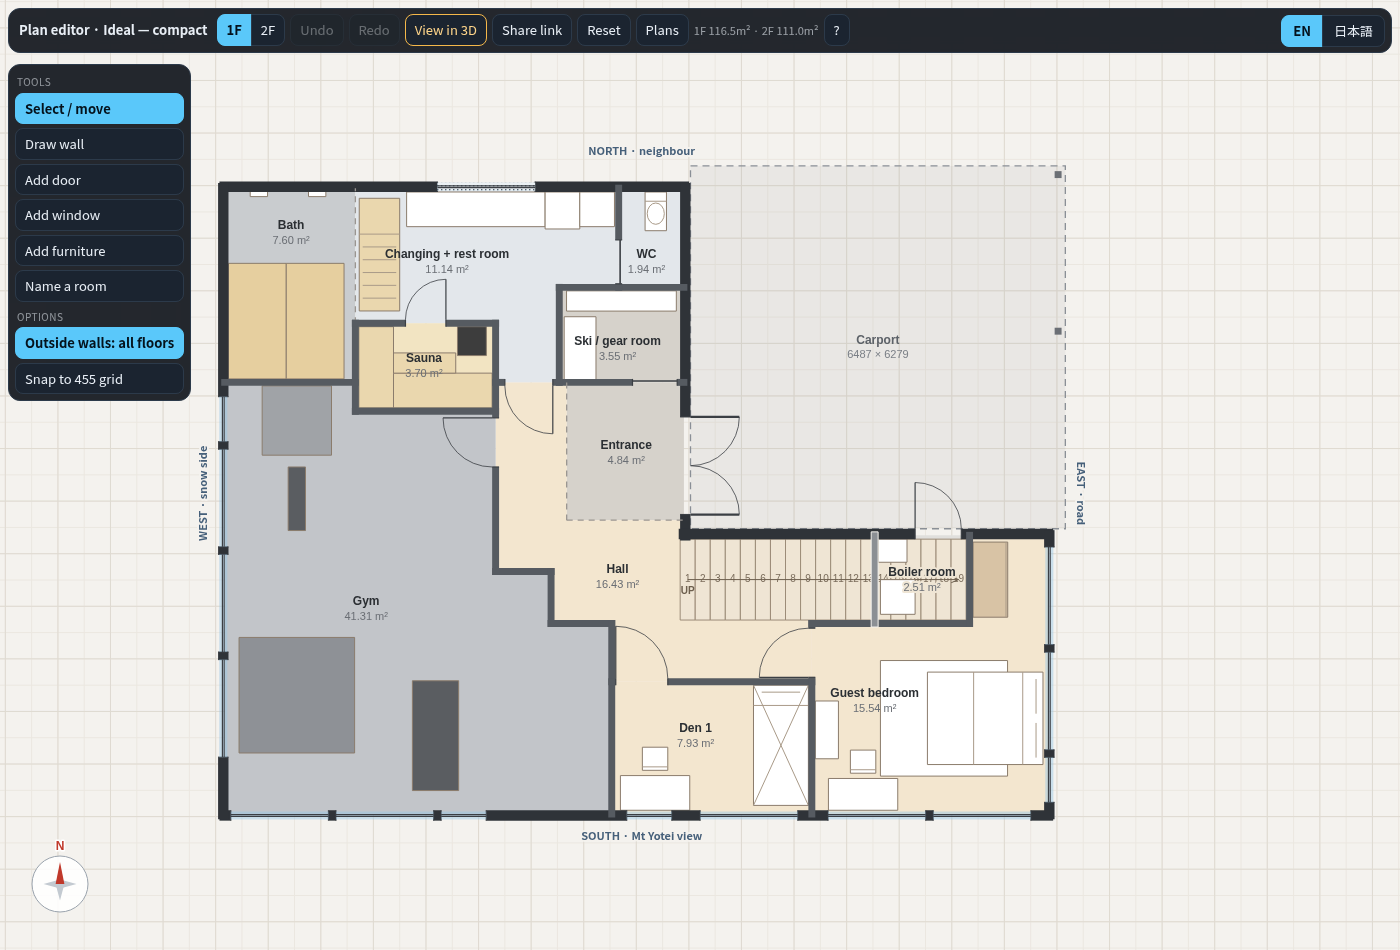
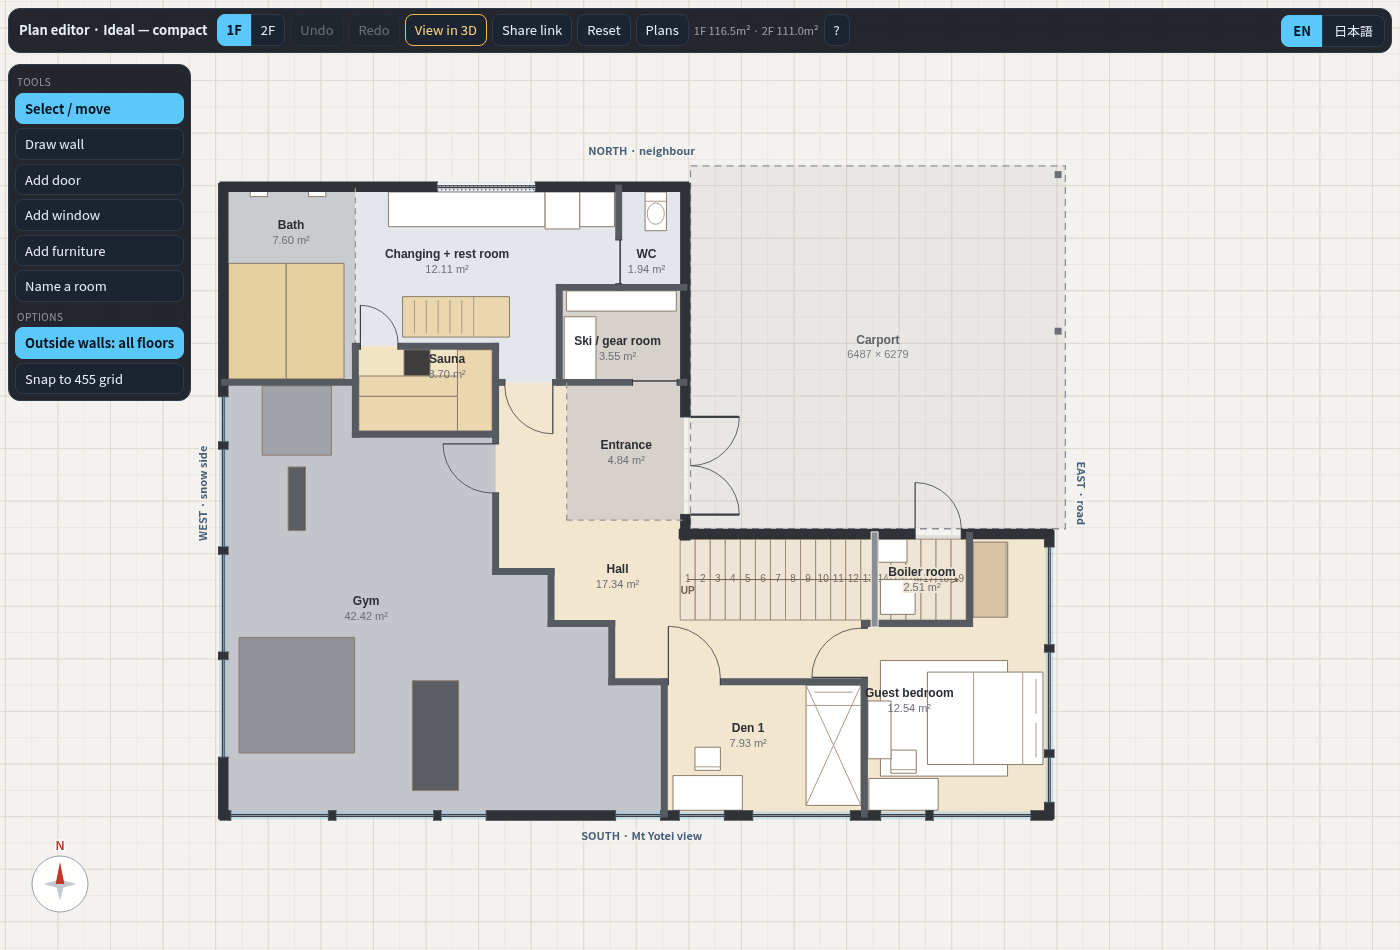
Ideal — compact v3: sauna further into the gym, lounger east-west, smaller guest bedroom
The sauna moves another 0.4 m south with its door by the bath; the lounger runs east-west
in front of it. Den 1 shifts 0.9 m east into the guest bedroom (12.5 m²); the gym takes
den 1's old strip (42.4 m²).

diff --git a/plans.html b/plans.html
@@ -75,8 +75,8 @@
     <dt><span class="en">Front door</span><span class="ja" lang="ja">玄関ドア</span></dt><dd><span class="en">double, 1.69 × 2.33 m</span><span class="ja" lang="ja">両開き 1.69×2.33m</span></dd>
   </dl>
   <div class="floors">
-    <figure><a class="ja" lang="ja" href="plans-img/d_1F_ja.png?v=28"><img src="plans-img/d_1F_ja.png?v=28" alt="理想プラン・1階" width="1400" height="950" loading="lazy"></a><a class="en" href="plans-img/d_1F.png?v=28"><img src="plans-img/d_1F.png?v=28" alt="Ideal plan, 1F" width="1400" height="950" loading="lazy"></a><figcaption><span class="en">1F</span><span class="ja" lang="ja">1階</span></figcaption></figure>
-    <figure><a class="ja" lang="ja" href="plans-img/d_2F_ja.png?v=28"><img src="plans-img/d_2F_ja.png?v=28" alt="理想プラン・2階" width="1400" height="950" loading="lazy"></a><a class="en" href="plans-img/d_2F.png?v=28"><img src="plans-img/d_2F.png?v=28" alt="Ideal plan, 2F" width="1400" height="950" loading="lazy"></a><figcaption><span class="en">2F</span><span class="ja" lang="ja">2階</span></figcaption></figure>
+    <figure><a class="ja" lang="ja" href="plans-img/d_1F_ja.png?v=29"><img src="plans-img/d_1F_ja.png?v=29" alt="理想プラン・1階" width="1400" height="950" loading="lazy"></a><a class="en" href="plans-img/d_1F.png?v=29"><img src="plans-img/d_1F.png?v=29" alt="Ideal plan, 1F" width="1400" height="950" loading="lazy"></a><figcaption><span class="en">1F</span><span class="ja" lang="ja">1階</span></figcaption></figure>
+    <figure><a class="ja" lang="ja" href="plans-img/d_2F_ja.png?v=29"><img src="plans-img/d_2F_ja.png?v=29" alt="理想プラン・2階" width="1400" height="950" loading="lazy"></a><a class="en" href="plans-img/d_2F.png?v=29"><img src="plans-img/d_2F.png?v=29" alt="Ideal plan, 2F" width="1400" height="950" loading="lazy"></a><figcaption><span class="en">2F</span><span class="ja" lang="ja">2階</span></figcaption></figure>
   </div>
 </section>
 <section id="plan-j">
@@ -90,15 +90,15 @@
     <dt><span class="en">Floor area</span><span class="ja" lang="ja">延床面積</span></dt><dd><span class="en">228 m² ≈ 69 tsubo</span><span class="ja" lang="ja">228 m²（約69坪）</span><br><small><span class="en">1F 116.5 · 2F 111.1 m²</span><span class="ja" lang="ja">1階 116.5・2階 111.1 m²</span></small></dd>
     <dt><span class="en">Bedrooms</span><span class="ja" lang="ja">寝室</span></dt><dd><span class="en">3, 2 with their own bathroom</span><span class="ja" lang="ja">3室（うち2室は専用バスルーム付き）</span></dd>
     <dt><span class="en">Dens</span><span class="ja" lang="ja">書斎</span></dt><dd><span class="en">2</span><span class="ja" lang="ja">2室</span></dd>
-    <dt><span class="en">Gym</span><span class="ja" lang="ja">ジム</span></dt><dd><span class="en">41.3 m²</span><span class="ja" lang="ja">41.3 m²</span></dd>
+    <dt><span class="en">Gym</span><span class="ja" lang="ja">ジム</span></dt><dd><span class="en">42.4 m²</span><span class="ja" lang="ja">42.4 m²</span></dd>
     <dt><span class="en">Bath + sauna</span><span class="ja" lang="ja">浴室＋サウナ</span></dt><dd><span class="en">7.6 + 3.7 m²</span><span class="ja" lang="ja">7.6＋3.7 m²</span></dd>
     <dt><span class="en">Living · dining · kitchen</span><span class="ja" lang="ja">LDK</span></dt><dd><span class="en">50.1 m²</span><span class="ja" lang="ja">50.1 m²</span></dd>
     <dt><span class="en">Roof height</span><span class="ja" lang="ja">最高高さ</span></dt><dd><span class="en">9.8 m above ground</span><span class="ja" lang="ja">地面から9.8 m</span></dd>
     <dt><span class="en">Front door</span><span class="ja" lang="ja">玄関ドア</span></dt><dd><span class="en">double, 1.69 × 2.33 m</span><span class="ja" lang="ja">両開き 1.69×2.33m</span></dd>
   </dl>
   <div class="floors">
-    <figure><a class="ja" lang="ja" href="plans-img/j_1F_ja.png?v=28"><img src="plans-img/j_1F_ja.png?v=28" alt="理想プラン（コンパクト）・1階" width="1400" height="950" loading="lazy"></a><a class="en" href="plans-img/j_1F.png?v=28"><img src="plans-img/j_1F.png?v=28" alt="Ideal — compact, 1F" width="1400" height="950" loading="lazy"></a><figcaption><span class="en">1F</span><span class="ja" lang="ja">1階</span></figcaption></figure>
-    <figure><a class="ja" lang="ja" href="plans-img/j_2F_ja.png?v=28"><img src="plans-img/j_2F_ja.png?v=28" alt="理想プラン（コンパクト）・2階" width="1400" height="950" loading="lazy"></a><a class="en" href="plans-img/j_2F.png?v=28"><img src="plans-img/j_2F.png?v=28" alt="Ideal — compact, 2F" width="1400" height="950" loading="lazy"></a><figcaption><span class="en">2F</span><span class="ja" lang="ja">2階</span></figcaption></figure>
+    <figure><a class="ja" lang="ja" href="plans-img/j_1F_ja.png?v=29"><img src="plans-img/j_1F_ja.png?v=29" alt="理想プラン（コンパクト）・1階" width="1400" height="950" loading="lazy"></a><a class="en" href="plans-img/j_1F.png?v=29"><img src="plans-img/j_1F.png?v=29" alt="Ideal — compact, 1F" width="1400" height="950" loading="lazy"></a><figcaption><span class="en">1F</span><span class="ja" lang="ja">1階</span></figcaption></figure>
+    <figure><a class="ja" lang="ja" href="plans-img/j_2F_ja.png?v=29"><img src="plans-img/j_2F_ja.png?v=29" alt="理想プラン（コンパクト）・2階" width="1400" height="950" loading="lazy"></a><a class="en" href="plans-img/j_2F.png?v=29"><img src="plans-img/j_2F.png?v=29" alt="Ideal — compact, 2F" width="1400" height="950" loading="lazy"></a><figcaption><span class="en">2F</span><span class="ja" lang="ja">2階</span></figcaption></figure>
   </div>
 </section>
 <details class="alt" id="alternatives">
@@ -121,9 +121,9 @@
     <dt><span class="en">Front door</span><span class="ja" lang="ja">玄関ドア</span></dt><dd><span class="en">parent-child, 1.24 × 2.33 m</span><span class="ja" lang="ja">親子ドア 1.24×2.33m</span></dd>
   </dl>
   <div class="floors">
-    <figure><a class="ja" lang="ja" href="plans-img/b_1F_ja.png?v=28"><img src="plans-img/b_1F_ja.png?v=28" alt="予算プラン・1階" width="1400" height="950" loading="lazy"></a><a class="en" href="plans-img/b_1F.png?v=28"><img src="plans-img/b_1F.png?v=28" alt="Budget plan, 1F" width="1400" height="950" loading="lazy"></a><figcaption><span class="en">1F</span><span class="ja" lang="ja">1階</span></figcaption></figure>
-    <figure><a class="ja" lang="ja" href="plans-img/b_2F_ja.png?v=28"><img src="plans-img/b_2F_ja.png?v=28" alt="予算プラン・2階" width="1400" height="950" loading="lazy"></a><a class="en" href="plans-img/b_2F.png?v=28"><img src="plans-img/b_2F.png?v=28" alt="Budget plan, 2F" width="1400" height="950" loading="lazy"></a><figcaption><span class="en">2F</span><span class="ja" lang="ja">2階</span></figcaption></figure>
-    <figure><a class="ja" lang="ja" href="plans-img/b_loft_ja.png?v=28"><img src="plans-img/b_loft_ja.png?v=28" alt="予算プラン・ロフト" width="1400" height="950" loading="lazy"></a><a class="en" href="plans-img/b_loft.png?v=28"><img src="plans-img/b_loft.png?v=28" alt="Budget plan, Loft" width="1400" height="950" loading="lazy"></a><figcaption><span class="en">Loft</span><span class="ja" lang="ja">ロフト</span></figcaption></figure>
+    <figure><a class="ja" lang="ja" href="plans-img/b_1F_ja.png?v=29"><img src="plans-img/b_1F_ja.png?v=29" alt="予算プラン・1階" width="1400" height="950" loading="lazy"></a><a class="en" href="plans-img/b_1F.png?v=29"><img src="plans-img/b_1F.png?v=29" alt="Budget plan, 1F" width="1400" height="950" loading="lazy"></a><figcaption><span class="en">1F</span><span class="ja" lang="ja">1階</span></figcaption></figure>
+    <figure><a class="ja" lang="ja" href="plans-img/b_2F_ja.png?v=29"><img src="plans-img/b_2F_ja.png?v=29" alt="予算プラン・2階" width="1400" height="950" loading="lazy"></a><a class="en" href="plans-img/b_2F.png?v=29"><img src="plans-img/b_2F.png?v=29" alt="Budget plan, 2F" width="1400" height="950" loading="lazy"></a><figcaption><span class="en">2F</span><span class="ja" lang="ja">2階</span></figcaption></figure>
+    <figure><a class="ja" lang="ja" href="plans-img/b_loft_ja.png?v=29"><img src="plans-img/b_loft_ja.png?v=29" alt="予算プラン・ロフト" width="1400" height="950" loading="lazy"></a><a class="en" href="plans-img/b_loft.png?v=29"><img src="plans-img/b_loft.png?v=29" alt="Budget plan, Loft" width="1400" height="950" loading="lazy"></a><figcaption><span class="en">Loft</span><span class="ja" lang="ja">ロフト</span></figcaption></figure>
   </div>
 </section>
 <section id="plan-c">
@@ -144,9 +144,9 @@
     <dt><span class="en">Front door</span><span class="ja" lang="ja">玄関ドア</span></dt><dd><span class="en">double, 1.69 × 2.33 m</span><span class="ja" lang="ja">両開き 1.69×2.33m</span></dd>
   </dl>
   <div class="floors">
-    <figure><a class="ja" lang="ja" href="plans-img/c_1F_ja.png?v=28"><img src="plans-img/c_1F_ja.png?v=28" alt="中間プラン・1階" width="1400" height="950" loading="lazy"></a><a class="en" href="plans-img/c_1F.png?v=28"><img src="plans-img/c_1F.png?v=28" alt="Mid tier plan, 1F" width="1400" height="950" loading="lazy"></a><figcaption><span class="en">1F</span><span class="ja" lang="ja">1階</span></figcaption></figure>
-    <figure><a class="ja" lang="ja" href="plans-img/c_2F_ja.png?v=28"><img src="plans-img/c_2F_ja.png?v=28" alt="中間プラン・2階" width="1400" height="950" loading="lazy"></a><a class="en" href="plans-img/c_2F.png?v=28"><img src="plans-img/c_2F.png?v=28" alt="Mid tier plan, 2F" width="1400" height="950" loading="lazy"></a><figcaption><span class="en">2F</span><span class="ja" lang="ja">2階</span></figcaption></figure>
-    <figure><a class="ja" lang="ja" href="plans-img/c_loft_ja.png?v=28"><img src="plans-img/c_loft_ja.png?v=28" alt="中間プラン・ロフト" width="1400" height="950" loading="lazy"></a><a class="en" href="plans-img/c_loft.png?v=28"><img src="plans-img/c_loft.png?v=28" alt="Mid tier plan, Loft" width="1400" height="950" loading="lazy"></a><figcaption><span class="en">Loft</span><span class="ja" lang="ja">ロフト</span></figcaption></figure>
+    <figure><a class="ja" lang="ja" href="plans-img/c_1F_ja.png?v=29"><img src="plans-img/c_1F_ja.png?v=29" alt="中間プラン・1階" width="1400" height="950" loading="lazy"></a><a class="en" href="plans-img/c_1F.png?v=29"><img src="plans-img/c_1F.png?v=29" alt="Mid tier plan, 1F" width="1400" height="950" loading="lazy"></a><figcaption><span class="en">1F</span><span class="ja" lang="ja">1階</span></figcaption></figure>
+    <figure><a class="ja" lang="ja" href="plans-img/c_2F_ja.png?v=29"><img src="plans-img/c_2F_ja.png?v=29" alt="中間プラン・2階" width="1400" height="950" loading="lazy"></a><a class="en" href="plans-img/c_2F.png?v=29"><img src="plans-img/c_2F.png?v=29" alt="Mid tier plan, 2F" width="1400" height="950" loading="lazy"></a><figcaption><span class="en">2F</span><span class="ja" lang="ja">2階</span></figcaption></figure>
+    <figure><a class="ja" lang="ja" href="plans-img/c_loft_ja.png?v=29"><img src="plans-img/c_loft_ja.png?v=29" alt="中間プラン・ロフト" width="1400" height="950" loading="lazy"></a><a class="en" href="plans-img/c_loft.png?v=29"><img src="plans-img/c_loft.png?v=29" alt="Mid tier plan, Loft" width="1400" height="950" loading="lazy"></a><figcaption><span class="en">Loft</span><span class="ja" lang="ja">ロフト</span></figcaption></figure>
   </div>
 </section>
 </details>

diff --git a/edit.js b/edit.js
@@ -27,7 +27,7 @@ const PLANS = {
   b: { url: 'ref-model-b.json?v=5', key: 'h3dRefModelB', view: 'index.html?house=4', edit: 'edit.html?plan=b' },
   c: { url: 'ref-model-c.json?v=5', key: 'h3dRefModelC', view: 'index.html?house=5', edit: 'edit.html?plan=c' },
   d: { url: 'ref-model-d.json?v=7', key: 'h3dRefModelD', view: 'index.html?house=6', edit: 'edit.html?plan=d' },
-  j: { url: 'ref-model-j.json?v=2', key: 'h3dRefModelJ', view: 'index.html?house=12', edit: 'edit.html?plan=j' },
+  j: { url: 'ref-model-j.json?v=3', key: 'h3dRefModelJ', view: 'index.html?house=12', edit: 'edit.html?plan=j' },
   f: { url: 'ref-model-f.json?v=5', key: 'h3dRefModelF', view: 'index.html?house=8', edit: 'edit.html?plan=f', ichijo: true },
   g: { url: 'ref-model-g.json?v=3', key: 'h3dRefModelG', view: 'index.html?house=9', edit: 'edit.html?plan=g', ichijo: true },
 };
@@ -155,8 +155,8 @@ const DESC = {
     ja: "中間プラン<br>1階：玄関、スキー/ギア室、ホール、ジム62.1m²、浴室21.1m²（ひのき浴槽2つ）とサウナ5.0m²、脱衣・休憩室、洗濯室、トイレ、機械室。<br>2階：リビング・ダイニング、アイランドのあるキッチン、主寝室と寝室2（それぞれ専用シャワー室・ウォークインクローゼット付き）、書斎2室、トイレ。<br>ロフト：寝室/書斎29.8m²（専用バスルーム・クローゼット付き）。" },
   d: { en: "Ideal plan<br>1F: entrance, ski / gear room, hall, gym 65.8 m², bath 24.8 m² (two hinoki tubs) with an 8.3 m² L-shaped sauna, changing + rest room, laundry, WC, boiler room.<br>2F: living with windows on three sides, dining + kitchen with an island, master bedroom with an ensuite and a closet, bedroom 2 with an ensuite, bedroom 3, two dens, WC.",
     ja: "理想プラン<br>1階：玄関、スキー/ギア室、ホール、ジム65.8m²、浴室24.8m²（ひのき浴槽2つ）とL字型のサウナ8.3m²、脱衣・休憩室、洗濯室、トイレ、機械室。<br>2階：3面に窓のあるリビング、アイランドのあるダイニング・キッチン、主寝室（専用シャワー室・クローゼット付き）、寝室2（専用シャワー室付き）、寝室3、書斎2室、トイレ。" },
-  j: { en: "Ideal — compact<br>1F: entrance, ski / gear room, hall, gym 41.3 m², bath 7.6 m² (two hinoki tubs) with a 3.7 m² sauna, changing + rest room with a lounger and the laundry, WC, boiler room under the stairs, den 1 (office with a bunk bed), guest bedroom 15.5 m².<br>2F: living with glass on three sides, dining + kitchen with an island, master bedrooms 1 and 2 (13.5 m² each), each with a 5.0 m² walk-in closet and a 5.7 m² bathroom, den 2 (office with a bunk bed), WC.",
-    ja: "理想プラン（コンパクト）<br>1階：玄関、スキー/ギア室、ホール、ジム41.3m²、浴室7.6m²（ひのき浴槽2つ）とサウナ3.7m²、脱衣・休憩室（ラウンジャー・洗濯機）、トイレ、階段下の機械室、書斎1（二段ベッド付き）、ゲスト寝室15.5m²。<br>2階：3面にガラスのあるリビング、アイランドのあるダイニング・キッチン、主寝室1・2（各13.5m²、それぞれ5.0m²のウォークインクローゼットと5.7m²のバスルーム付き）、書斎2（二段ベッド付き）、トイレ。" },
+  j: { en: "Ideal — compact<br>1F: entrance, ski / gear room, hall, gym 42.4 m², bath 7.6 m² (two hinoki tubs) with a 3.7 m² sauna, changing + rest room with a lounger and the laundry, WC, boiler room under the stairs, den 1 (office with a bunk bed), guest bedroom 12.5 m².<br>2F: living with glass on three sides, dining + kitchen with an island, master bedrooms 1 and 2 (13.5 m² each), each with a 5.0 m² walk-in closet and a 5.7 m² bathroom, den 2 (office with a bunk bed), WC.",
+    ja: "理想プラン（コンパクト）<br>1階：玄関、スキー/ギア室、ホール、ジム42.4m²、浴室7.6m²（ひのき浴槽2つ）とサウナ3.7m²、脱衣・休憩室（ラウンジャー・洗濯機）、トイレ、階段下の機械室、書斎1（二段ベッド付き）、ゲスト寝室12.5m²。<br>2階：3面にガラスのあるリビング、アイランドのあるダイニング・キッチン、主寝室1・2（各13.5m²、それぞれ5.0m²のウォークインクローゼットと5.7m²のバスルーム付き）、書斎2（二段ベッド付き）、トイレ。" },
   f: { en: "Compact<br>1F: entrance, hall, gym 52.0 m², bath 23.2 m² (two hinoki tubs) with a 4.0 m² sauna, changing room, laundry, WC, boiler room, bedroom 3 (14.2 m²) with its own bathroom.<br>2F: living with a sloped ceiling up to 4.75 m, dining, kitchen, bedrooms 1, 2 and 4 (11.2, 11.5 and 13.0 m²), each with its own bathroom; walk-in closets for bedrooms 2 and 4.",
     ja: "コンパクト<br>1階：玄関、ホール、ジム52.0m²、浴室23.2m²（ひのき浴槽2つ）とサウナ4.0m²、脱衣室、洗濯室、トイレ、機械室、寝室3（14.2m²、専用バスルーム付き）。<br>2階：勾配天井（最高4.75m）のリビング、ダイニング、キッチン、寝室1・2・4（11.2・11.5・13.0m²、それぞれ専用バスルーム付き、寝室2・4はウォークインクローゼット付き）。" },
   g: { en: "Full size<br>1F: entrance, hall, gym 52.1 m², bath 32.1 m² (two hinoki tubs) with a 5.5 m² sauna, changing + rest room, laundry, WC, boiler room, bedroom 3 (18.4 m²) with its own shower room across the hall.<br>2F: living with a sloped ceiling up to 4.75 m, dining, kitchen, bedrooms 1, 2 and 4 (18.2, 19.9 and 14.1 m²), each with a walk-in closet and its own bathroom.",

diff --git a/app.js b/app.js
@@ -69,7 +69,7 @@ const REFS = {
   5: { url: 'ref-model-c.json?v=5', key: 'h3dRefModelC', edit: 'edit.html?plan=c' },
   6: { url: 'ref-model-d.json?v=7', key: 'h3dRefModelD', edit: 'edit.html?plan=d' },
   /* house 12 = Ideal — compact (Toby's own 65-tsubo FPC plan, 2026-10-20; ref/gen_model_j.py): its roof falls west (axis x) */
-  12: { url: 'ref-model-j.json?v=2', key: 'h3dRefModelJ', edit: 'edit.html?plan=j' },
+  12: { url: 'ref-model-j.json?v=3', key: 'h3dRefModelJ', edit: 'edit.html?plan=j' },
   8: { url: 'ref-model-f.json?v=5', key: 'h3dRefModelF', edit: 'edit.html?plan=f', ichijo: true },
   9: { url: 'ref-model-g.json?v=3', key: 'h3dRefModelG', edit: 'edit.html?plan=g', ichijo: true },
 };
@@ -95,7 +95,7 @@ const TXT = {
     h6: '理想プラン', h6t: "L字型の2階建て。リビングの翼棟は3面に窓", origt6: '理想プランの最初の間取りを表示（編集はそのまま残ります）',
     h12: '理想プラン（コンパクト）', h12t: "コンパクトなL字型の2階建て。L字の内側にカーポート、リビングの翼棟は3面にガラス", origt12: '「理想プラン（コンパクト）」の最初の間取りを表示（編集はそのまま残ります）',
     doc12: '倶知安 住宅計画 理想プラン（コンパクト） — 3D',
-    geo12: "理想プラン（コンパクト）\n1階：玄関、スキー/ギア室、ホール、ジム41.3m²、浴室7.6m²（ひのき浴槽2つ）とサウナ3.7m²、脱衣・休憩室（ラウンジャー・洗濯機）、トイレ、階段下の機械室、書斎1（二段ベッド付き）、ゲスト寝室15.5m²。\n2階：3面にガラスのあるリビング、アイランドのあるダイニング・キッチン、主寝室1・2（各13.5m²、それぞれ5.0m²のウォークインクローゼットと5.7m²のバスルーム付き）、書斎2（二段ベッド付き）、トイレ。",
+    geo12: "理想プラン（コンパクト）\n1階：玄関、スキー/ギア室、ホール、ジム42.4m²、浴室7.6m²（ひのき浴槽2つ）とサウナ3.7m²、脱衣・休憩室（ラウンジャー・洗濯機）、トイレ、階段下の機械室、書斎1（二段ベッド付き）、ゲスト寝室12.5m²。\n2階：3面にガラスのあるリビング、アイランドのあるダイニング・キッチン、主寝室1・2（各13.5m²、それぞれ5.0m²のウォークインクローゼットと5.7m²のバスルーム付き）、書斎2（二段ベッド付き）、トイレ。",
     edit: '間取りを編集', editt: '壁・扉・窓・家具を動かして間取りを変更（3Dにも反映されます）',
     srcEdited: '編集した間取り', srcLink: '共有リンクの間取り', origb: '元の図面を表示', origt: 'この間取りの最初の状態を表示（編集はそのまま残ります）', loft: 'ロフト',
     jumpt: '部屋へ移動', walk: '歩行', fly: '飛行', walkt: '歩行＝床の上を移動／飛行＝自由に移動',
@@ -135,7 +135,7 @@ const TXT = {
     h6: 'Ideal plan', h6t: "L-shaped two-storey house; the living wing has windows on three sides", origt6: 'Show the Ideal plan as first drawn (your edits stay saved)',
     h12: 'Ideal — compact', h12t: "Compact L-shaped two-storey house; carport in the L's inner corner, the living wing glazed on three sides", origt12: 'Show “Ideal — compact” as first drawn (your edits stay saved)',
     doc12: 'Kutchan house — Ideal — compact — 3D',
-    geo12: "Ideal — compact\n1F: entrance, ski / gear room, hall, gym 41.3 m², bath 7.6 m² (two hinoki tubs) with a 3.7 m² sauna, changing + rest room with a lounger and the laundry, WC, boiler room under the stairs, den 1 (office with a bunk bed), guest bedroom 15.5 m².\n2F: living with glass on three sides, dining + kitchen with an island, master bedrooms 1 and 2 (13.5 m² each), each with a 5.0 m² walk-in closet and a 5.7 m² bathroom, den 2 (office with a bunk bed), WC.",
+    geo12: "Ideal — compact\n1F: entrance, ski / gear room, hall, gym 42.4 m², bath 7.6 m² (two hinoki tubs) with a 3.7 m² sauna, changing + rest room with a lounger and the laundry, WC, boiler room under the stairs, den 1 (office with a bunk bed), guest bedroom 12.5 m².\n2F: living with glass on three sides, dining + kitchen with an island, master bedrooms 1 and 2 (13.5 m² each), each with a 5.0 m² walk-in closet and a 5.7 m² bathroom, den 2 (office with a bunk bed), WC.",
     edit: 'Edit plan', editt: 'Move walls, doors, windows and furniture (the 3D follows)',
     srcEdited: 'Edited plan', srcLink: 'Shared plan', origb: 'Show original', origt: 'Show this plan as first drawn (your edits stay saved)', loft: 'Loft',
     jumpt: 'Jump to a room', walk: 'Walk', fly: 'Fly', walkt: 'Walk = stay on the floor. Fly = free movement',

diff --git a/edit.html b/edit.html
@@ -124,6 +124,6 @@
   <div style="margin-top:12px"><button onclick="document.getElementById('help').classList.remove('show')" data-i="close">閉じる</button></div>
 </div></div>
 
-<script type="module" src="edit.js?v=19"></script>
+<script type="module" src="edit.js?v=20"></script>
 </body>
 </html>

diff --git a/index.html b/index.html
@@ -136,6 +136,6 @@
 <script type="importmap">
 {"imports":{"three":"./three.module.min.js","three/addons/":"./jsm/"}}
 </script>
-<script type="module" src="app.js?v=28"></script>
+<script type="module" src="app.js?v=29"></script>
 </body>
 </html>
